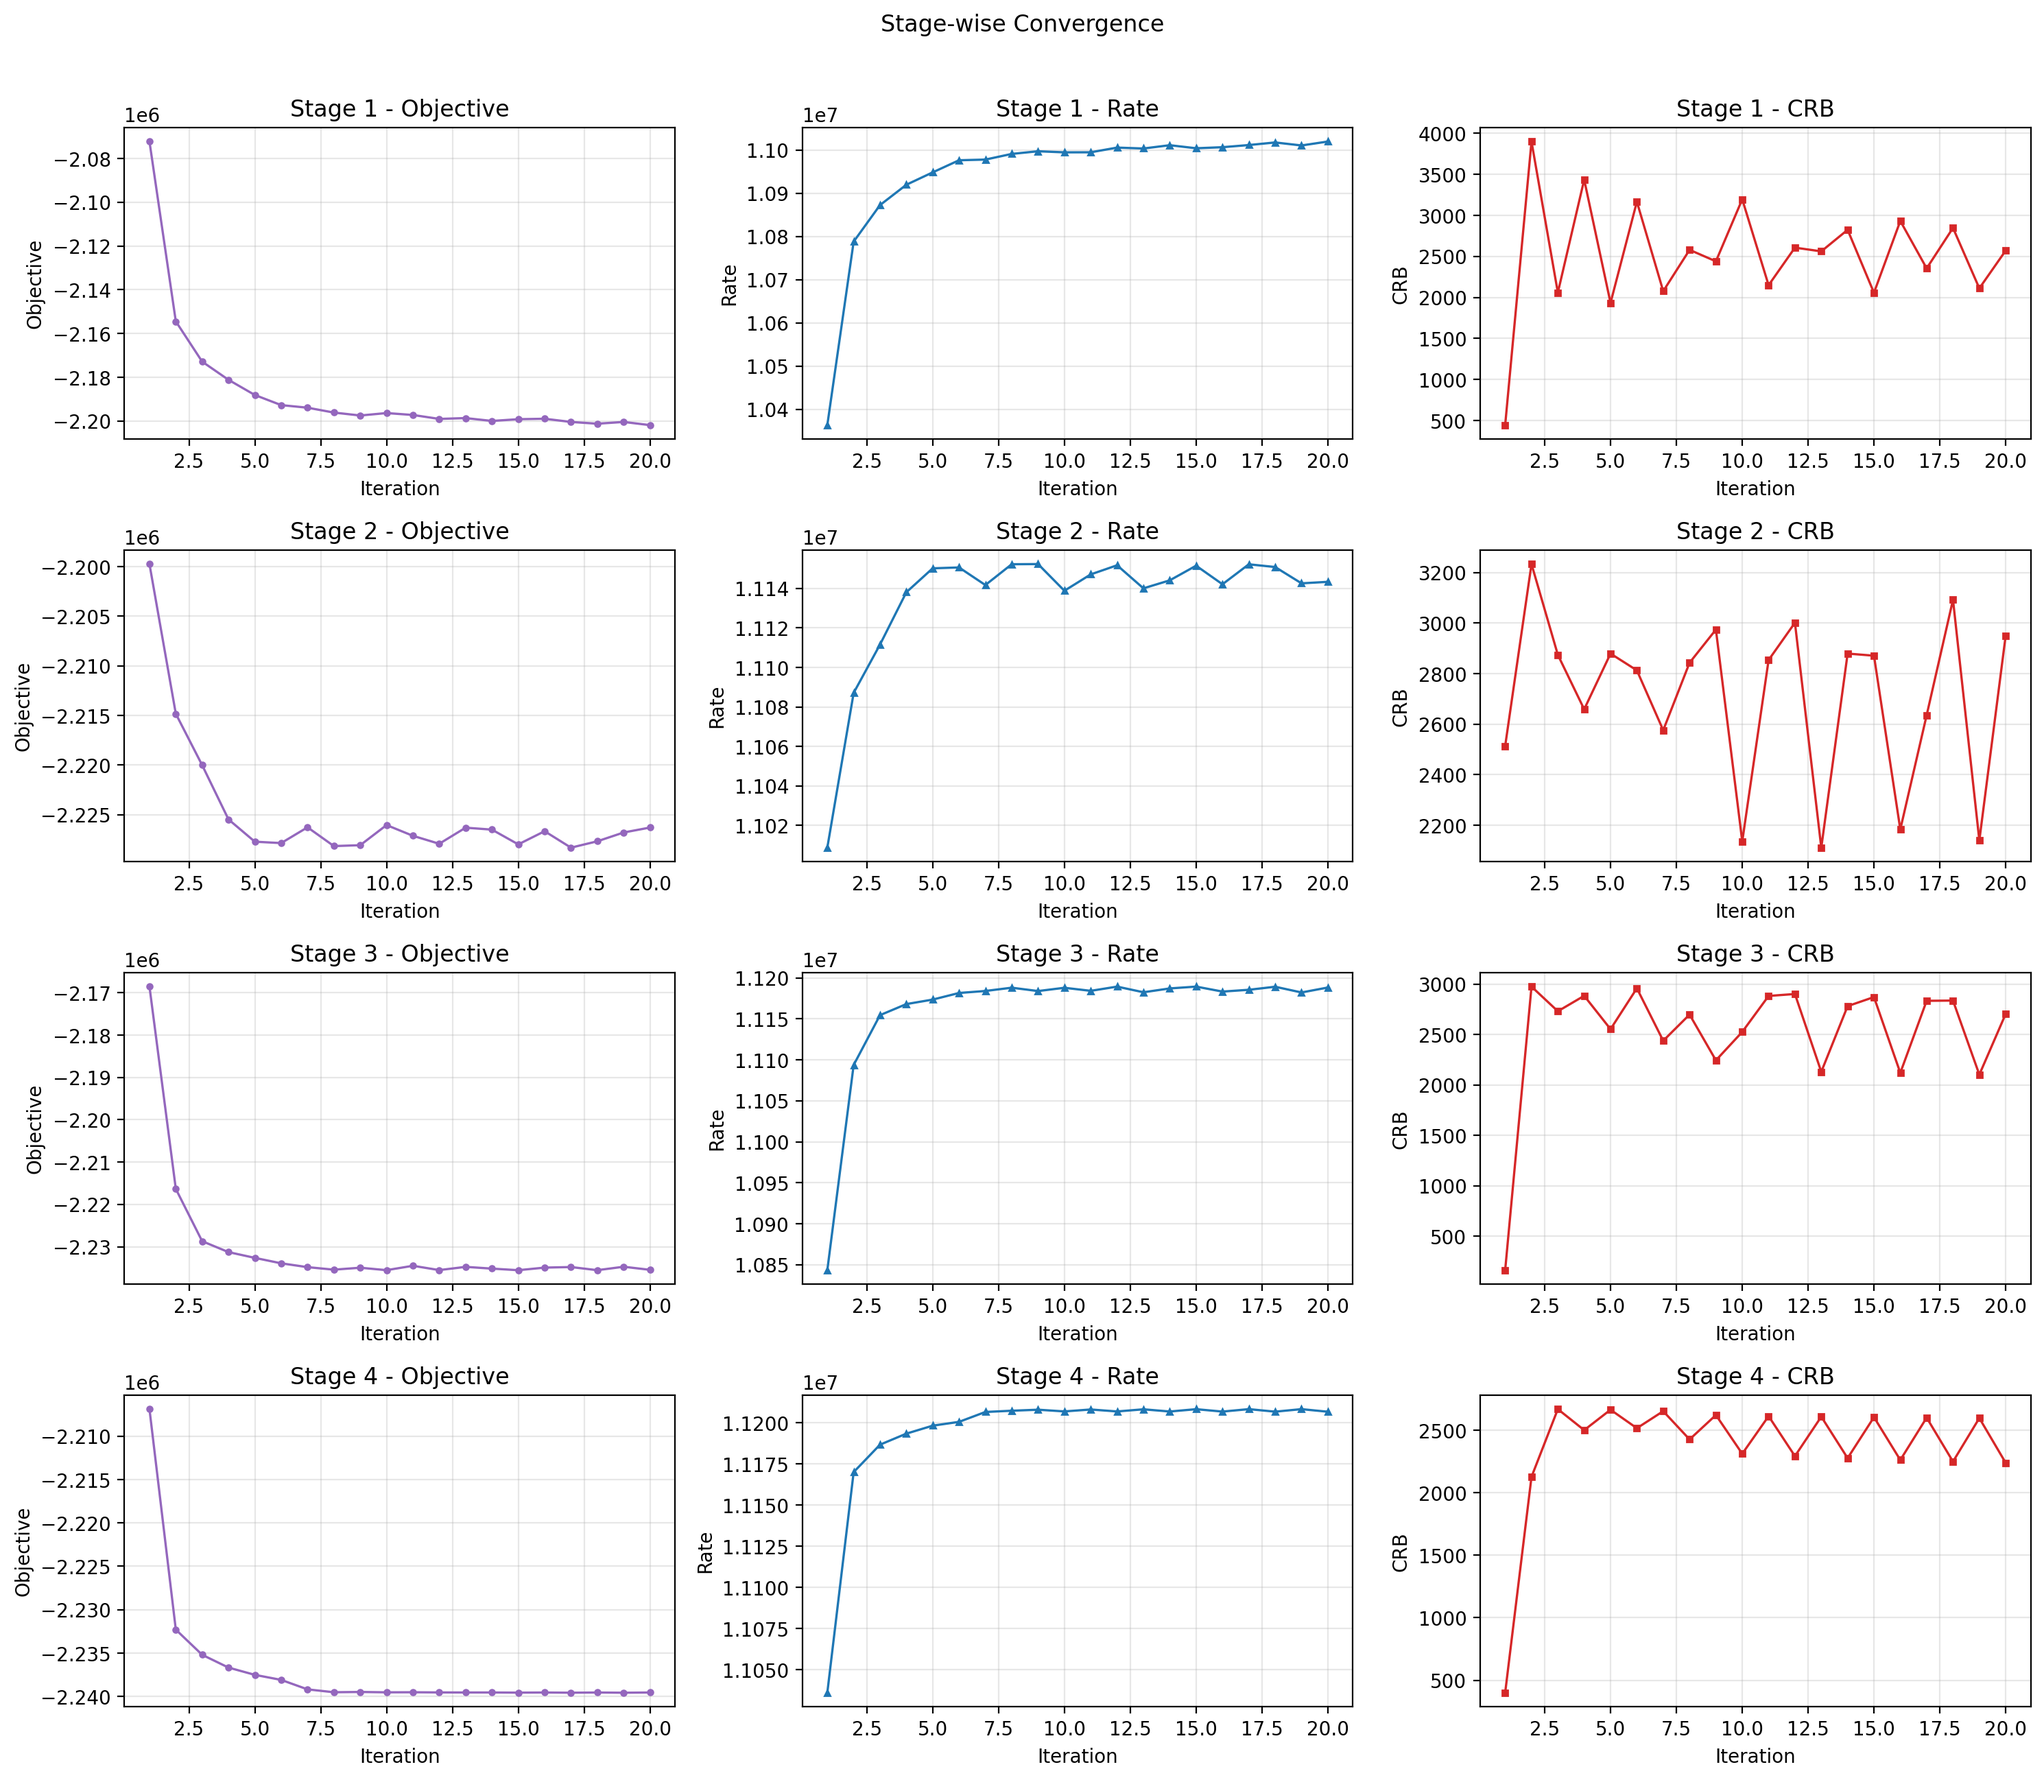
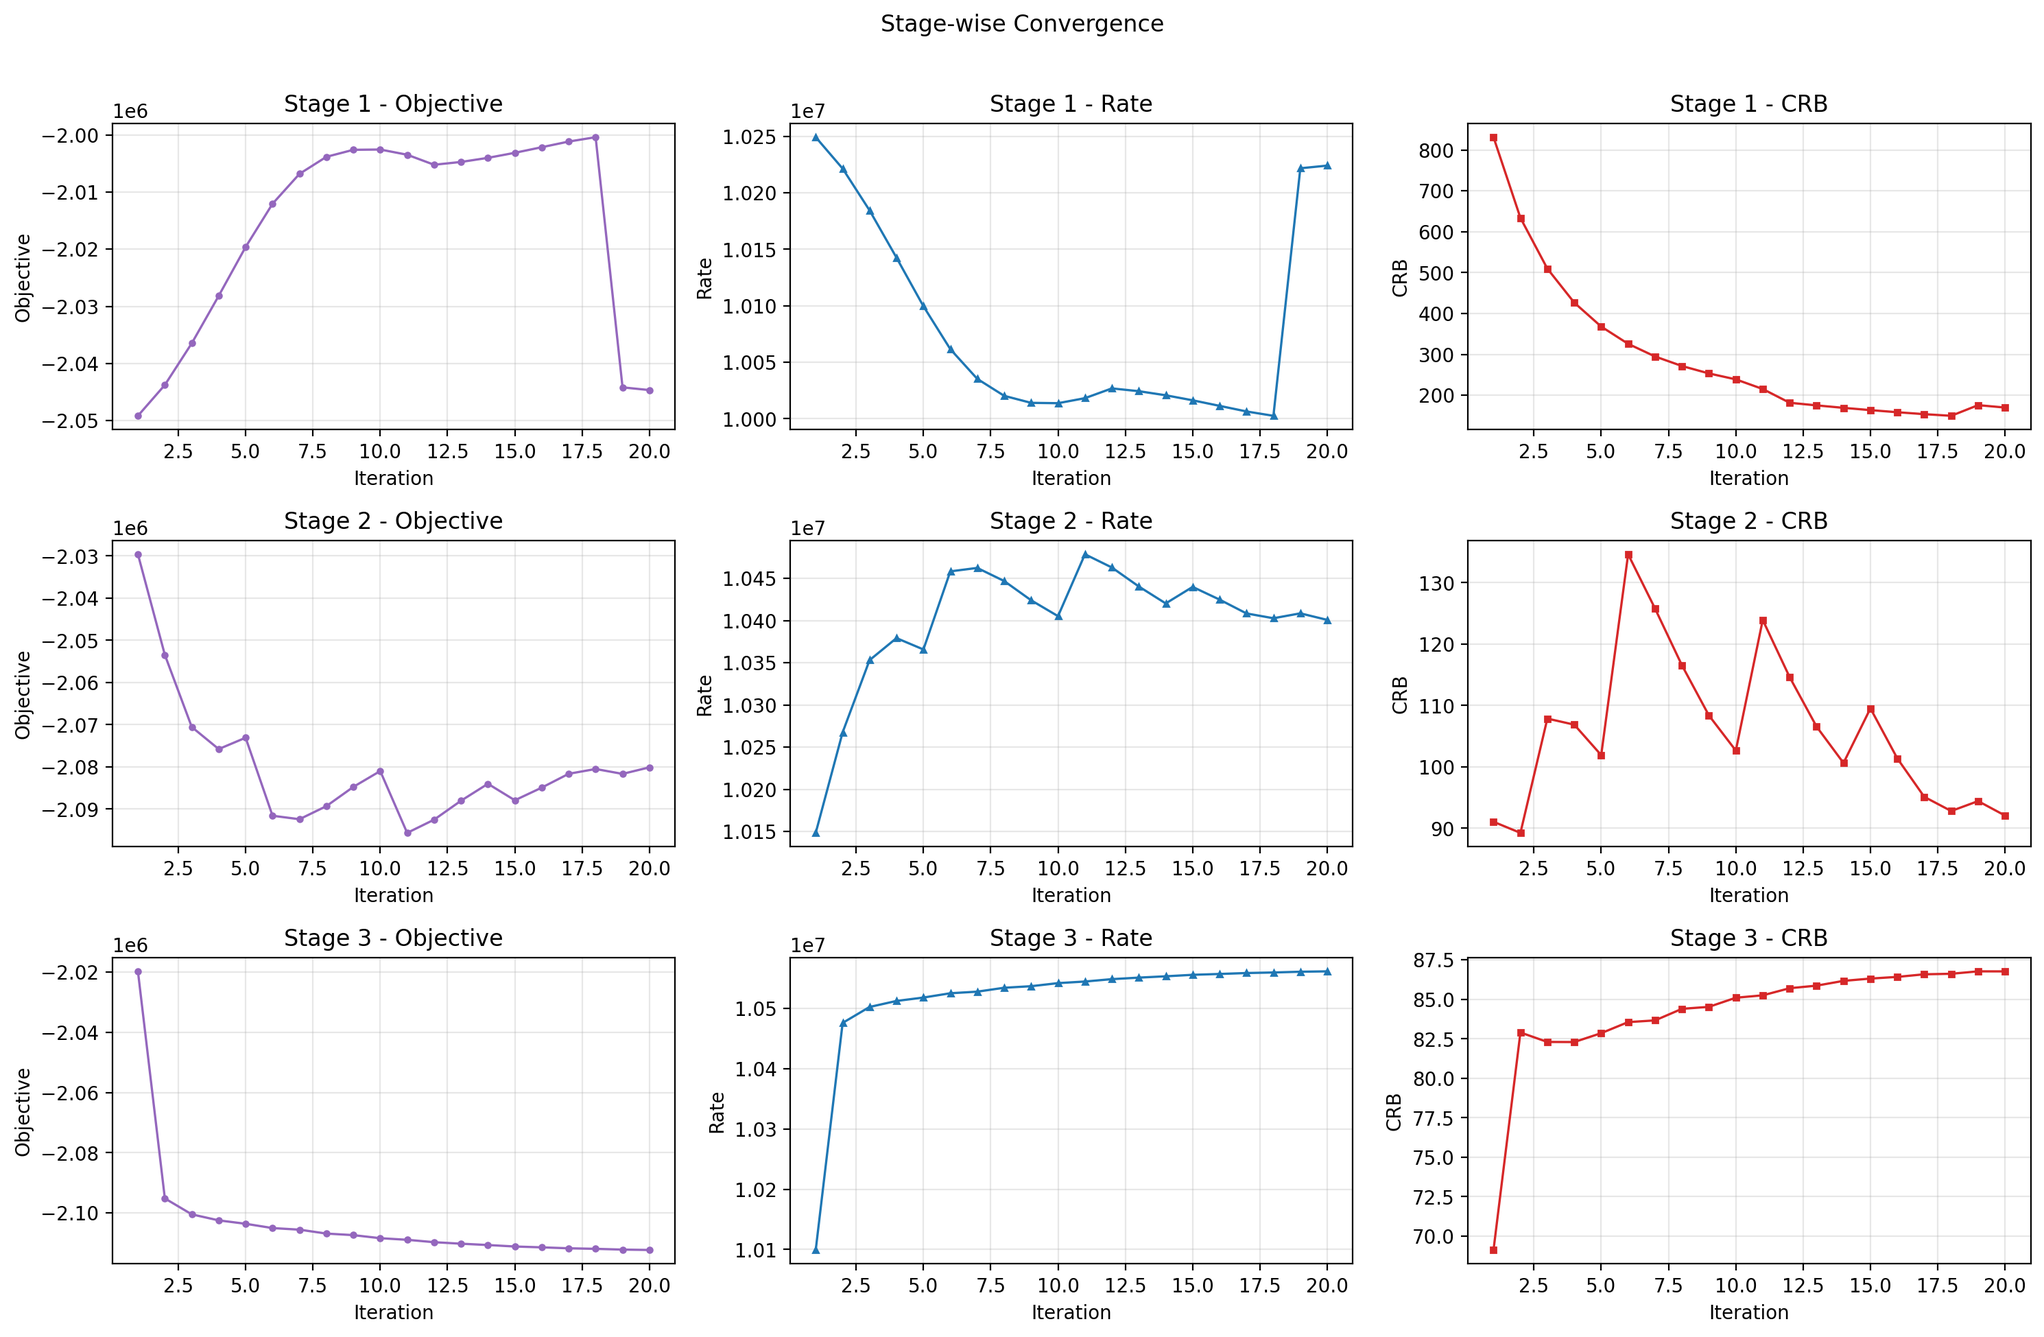
CRB_v1_003

diff --git a/plot_saved_results.py b/plot_saved_results.py
@@ -202,7 +202,7 @@ def plot_trajectory(tradeoff, user_xy, true_target_xy, out_dir: Path):
     if path_xy.size > 0:
         ax.plot(path_xy[:, 0], path_xy[:, 1], "-o", ms=2.5, label="UAV trajectory")
     if hover_xy.size > 0:
-        ax.scatter(hover_xy[:, 0], hover_xy[:, 1], s=25, marker="^", label="hover points")
+        ax.scatter(hover_xy[:, 0], hover_xy[:, 1], s=25, marker="^", color="red", label="hover points")
     if coarse_hover_xy.size > 0:
         ax.plot(
             coarse_hover_xy[:, 0],
@@ -230,6 +230,8 @@ def plot_trajectory(tradeoff, user_xy, true_target_xy, out_dir: Path):
             alpha=0.8,
             label="target est updates",
         )
+    # Add UAV initial position
+    ax.scatter(100.0, 100.0, marker="s", s=60, c="tab:cyan", label="UAV start")
     ax.set_title("Optimized Trajectory (Tradeoff)")
     ax.set_xlabel("x (m)")
     ax.set_ylabel("y (m)")
@@ -239,6 +241,39 @@ def plot_trajectory(tradeoff, user_xy, true_target_xy, out_dir: Path):
 
     fig.tight_layout()
     fig.savefig(out_dir / "trajectory_tradeoff.png", dpi=200)
+
+
+def plot_all_trajectories(results, user_xy, true_target_xy, out_dir: Path):
+    fig, ax = plt.subplots(figsize=(8, 6))
+    colors = {'communication_only': 'blue', 'tradeoff': 'green', 'sensing_only': 'red'}
+    markers = {'communication_only': 'o', 'tradeoff': 's', 'sensing_only': '^'}
+
+    for result in results:
+        method = result['method_name']
+        if method not in colors:
+            continue
+        path_xy = _concat_paths(result.get("all_paths", []))
+        hover_xy = np.asarray(result.get("all_hover_xy", []), dtype=float)
+        coarse_hover_xy = np.asarray(result.get("coarse_hover_xy", []), dtype=float)
+        if path_xy.size > 0:
+            ax.plot(path_xy[:, 0], path_xy[:, 1], "-", marker=markers[method], ms=3, color=colors[method], label=f"{method} trajectory")
+        if hover_xy.size > 0:
+            ax.scatter(hover_xy[:, 0], hover_xy[:, 1], s=30, marker="^", color=colors[method], alpha=0.7, label=f"{method} hover")
+        if coarse_hover_xy.size > 0:
+            ax.plot(coarse_hover_xy[:, 0], coarse_hover_xy[:, 1], "--", lw=1.2, color=colors[method], alpha=0.5, label=f"{method} coarse")
+
+    # Common elements
+    ax.scatter(user_xy[0], user_xy[1], marker="*", s=120, c="tab:green", label="user")
+    ax.scatter(true_target_xy[0], true_target_xy[1], marker="x", s=90, c="tab:red", label="target true")
+    ax.scatter(100.0, 100.0, marker="s", s=60, c="tab:cyan", label="UAV start")
+    ax.set_title("Trajectories for All Methods")
+    ax.set_xlabel("x (m)")
+    ax.set_ylabel("y (m)")
+    ax.set_aspect("equal", adjustable="box")
+    ax.grid(True, alpha=0.3)
+    ax.legend(loc="best")
+    fig.tight_layout()
+    fig.savefig(out_dir / "all_trajectories.png", dpi=200)
 
 
 def main():
@@ -254,7 +289,7 @@ def main():
     plot_stagewise_convergence(stage_histories, out_dir)
     plot_global_evolution_by_waypoints(tradeoff, out_dir)
     plot_trajectory(tradeoff, user_xy, true_target_xy, out_dir)
-
+    plot_all_trajectories(results, user_xy, true_target_xy, out_dir)
     print(f"Saved figures to: {out_dir}")
     plt.show()
 

diff --git a/simulation_pipeline.py b/simulation_pipeline.py
@@ -38,9 +38,9 @@ def mle_grid_search(
     measured_ds: np.ndarray,
     hover_xy: np.ndarray,
     cfg: sm.SimConfig,
-    coarse_step: float = 50.0,
-    fine_step: float = 10.0,
-    fine_radius: float = 100.0,
+    coarse_step: float = 200.0,
+    fine_step: float = 1.0,
+    fine_radius: float = 200.0,
 ) -> np.ndarray:
     """MLE target estimate via two-level grid search."""
     measured_ds = np.asarray(measured_ds, dtype=float).reshape(-1)
@@ -284,6 +284,7 @@ def run_multistage_with_mle(
             f"[stage {m}] Nm={nm_used}, Km={km_used}, E_used={e_used:.2f}, "
             f"E_left={energy_left:.2f}, status={out['status_final']}, solver={out['solver_final']}, "
             f"target_hat=({target_hat_xy[0]:.1f},{target_hat_xy[1]:.1f})"
+            f"crb_final={out['crb_final']:.2f}"
         )
         m += 1
 

diff --git a/p2_solver.py b/p2_solver.py
@@ -174,7 +174,7 @@ def solve_p2m_sca(stage: StageData, cfg: sm.SimConfig, e_cfg: pb.EnergyConfig, s
         if denom <= 0.0:
             raise ValueError("Invalid cumulative denominator in Eq.(33).")
         R_lin = (stage.R_prev_sum + stage.Nm * R_lin_stage) / denom
-        obj = cp.Minimize(stage.eta * F - (1 - stage.eta) * R_lin)
+        obj = cp.Minimize(stage.eta * F - (1 - stage.eta) * R_lin/1000)
 
         prob = cp.Problem(obj, cons)
         prob.solve(verbose=False)

diff --git a/generate_results.py b/generate_results.py
@@ -21,7 +21,7 @@ def main():
     meta_path = output_dir / "isac_results_meta.json"
 
     user_xy = np.array([300.0, 400.0], dtype = float)
-    true_target_xy = np.array([1350.0, 1150.0], dtype = float)
+    true_target_xy = np.array([1342.8, 1109.2], dtype = float)
     nstg = 25
     etot = 35e3
     seed = 1

diff --git a/system_model.py b/system_model.py
@@ -12,8 +12,8 @@ class SimConfig:
     # Geometry
     Lx: float = 1500.0
     Ly: float = 1500.0
-    xB: float = 100.0
-    yB: float = 100.0
+    xB: float = 0.0
+    yB: float = 0.0
     H: float = 200.0
 
     # Time / trajectory
